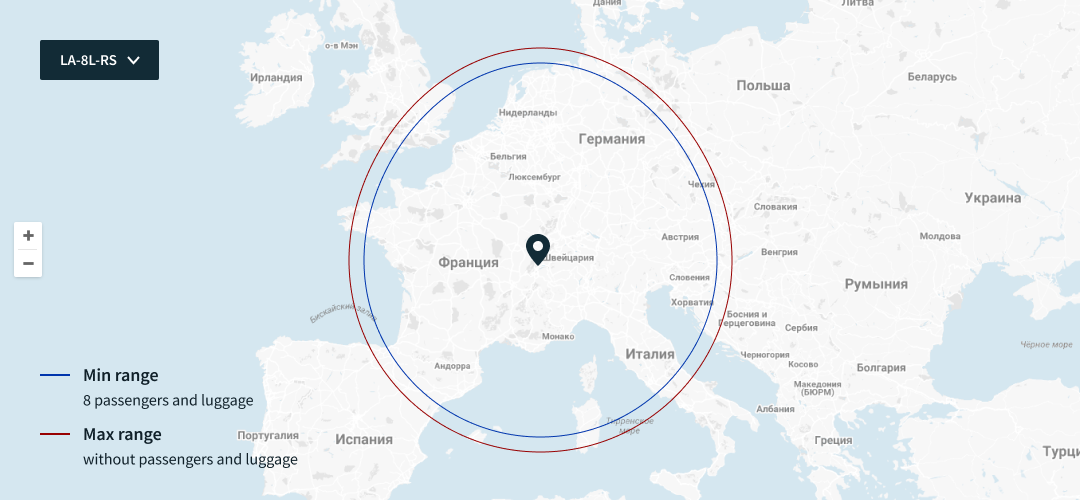
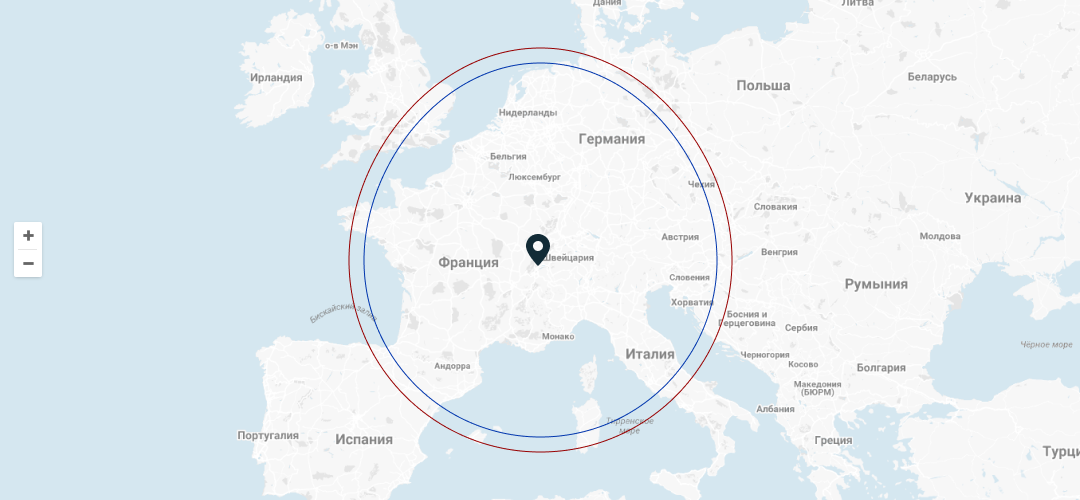
update map

Changed region(s): [[0.0306, 0.06, 0.1528, 0.18], [0.0611, 0.72, 0.2444, 0.84], [0.0306, 0.84, 0.275, 0.93]]

diff --git a/src/public/wp-content/themes/app/html/app/css/blocks/aircarafts/single/map.scss b/src/public/wp-content/themes/app/html/app/css/blocks/aircarafts/single/map.scss
@@ -1,15 +1,97 @@
 .map {
   margin-top: 60px;
-  display: flex;
 
-  &__container {
+  @include mobile {
+    margin: 40px -20px 0;
+  }
+
+
+  &__inner {
+    position: relative;
+
+    &:before {
+      display: block;
+      content: '';
+      padding-bottom: 46%;
+
+      @include tablet-and-mobile {
+        padding-bottom: 60%;
+      }
+
+      @include mobile {
+        padding-bottom: 100%;
+      }
+    }
+  }
+
+  &__image {
+    position: absolute;
+    top: 0;
+    left: 0;
     width: 100%;
     height: 100%;
 
-    iframe, img {
+    img, iframe {
       width: 100%;
       height: 100%;
       object-fit: cover;
+    }
+  }
+
+  &__labels {
+    position: absolute;
+    bottom: 30px;
+    left: 40px;
+    @include tablet-and-mobile {
+      bottom: 20px;
+      left: 20px;
+    }
+  }
+
+  &__select {
+    position: absolute;
+    top: 40px;
+    left: 40px;
+
+    width: 120px;
+    height: 40px;
+
+    @include tablet-and-mobile {
+      top: 30px;
+      left: 30px;
+    }
+    @include mobile {
+      top: 20px;
+      left: 20px;
+
+      width: 110px;
+      height: 35px;
+      .form-select {
+        height: 35px;
+
+        &__select-label {
+          font-size: 14px;
+          line-height: 17px;
+          vertical-align: center;
+        }
+      }
+    }
+
+    .form-select__select-title {
+      border: none;
+      background: $color-green-dark-100;
+      border-radius: 2px;
+      color: $color-white;
+
+      &:before, &:after {
+        background: $color-white;
+      }
+
+      @include mobile {
+        padding: 5px 25px 6px 10px;
+        font-size: 14px;
+        line-height: 17px;
+      }
     }
   }
 }

diff --git a/src/public/wp-content/themes/app/html/app/css/blocks/aircarafts/single/components/map-label.scss b/src/public/wp-content/themes/app/html/app/css/blocks/aircarafts/single/components/map-label.scss
@@ -1,0 +1,70 @@
+.map-label {
+  display: flex;
+  margin-top: 8px;
+
+  &:first-child {
+    margin-top: 0;
+  }
+
+  &--blue {
+    .map-label__pointer {
+      background: $color-blue-90;
+    }
+  }
+
+  &--red {
+    .map-label__pointer {
+      background: $color-red100;
+    }
+  }
+
+  &__left {
+    margin-right: 13px;
+    padding-top: 13px;
+
+    @include tablet-and-mobile {
+      margin-right: 10px;
+      padding-top: 10px;
+    }
+  }
+
+  &__right {
+    max-width: 280px;
+    color: #102029;
+  }
+
+  &__pointer {
+    display: block;
+    width: 30px;
+    height: 2px;
+    background: $color-blue-90;
+
+    @include tablet-and-mobile {
+      width: 20px;
+    }
+  }
+
+  &__title {
+    display: block;
+    margin-bottom: -2px;
+
+    font-weight: 600;
+    font-size: 18px;
+    line-height: 28px;
+
+    @include tablet-and-mobile {
+      font-size: 14px;
+      line-height: 22px;
+      margin-bottom: -6px;
+    }
+  }
+
+  &__description {
+    font-size: 16px;
+    line-height: 24px;
+    @include tablet-and-mobile {
+      font-size: 12px;
+      line-height: 18px;
+    }
+  }
+}

diff --git a/src/public/wp-content/themes/app/html/app/css/config/colors.scss b/src/public/wp-content/themes/app/html/app/css/config/colors.scss
@@ -21,6 +21,7 @@ $color-blue-light: #495860;
 
 // Blue
 $color-blue-100: #0038D7;
+$color-blue-90: #0035AD;
 $color-blue-80: #0042FF;
 $color-blue-70: #1B74FD;
 
@@ -37,3 +38,5 @@ $color-gray-20: #F7F9FA;
 $color-gray-25: #F3F3F3;
 $color-gray: #E4E9EC;
 
+//Red
+$color-red100: #980000;

diff --git a/src/public/wp-content/themes/app/html/app/css/blocks/aircarafts/single/components/_index.scss b/src/public/wp-content/themes/app/html/app/css/blocks/aircarafts/single/components/_index.scss
@@ -3,3 +3,4 @@
 @import "modifications-table";
 @import "person";
 @import "aircrafts-header";
+@import "map-label";
